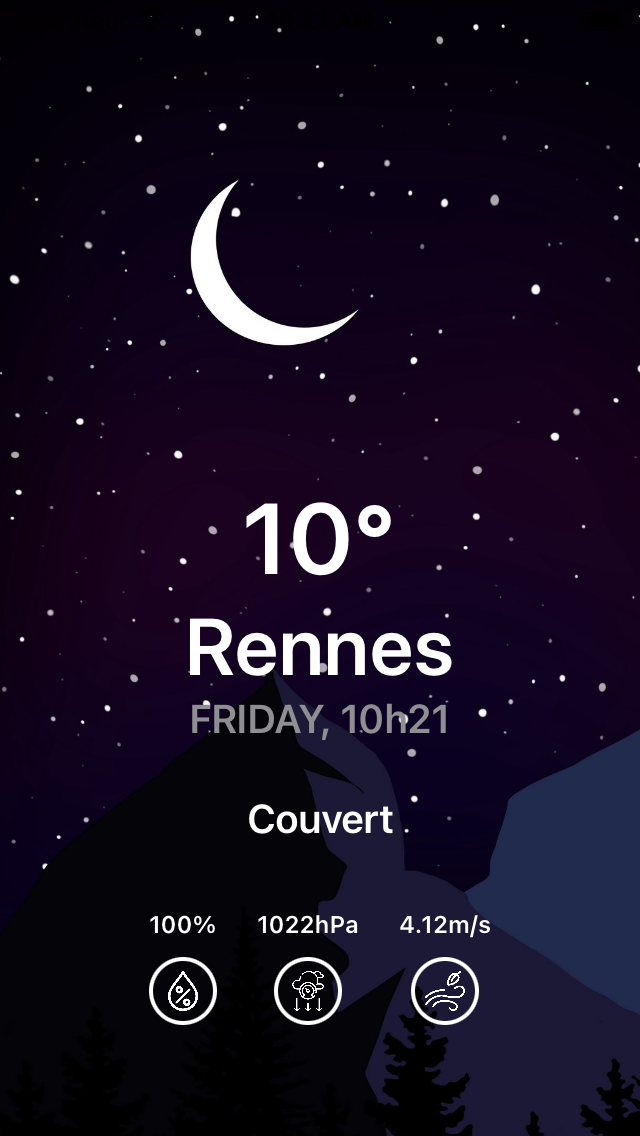
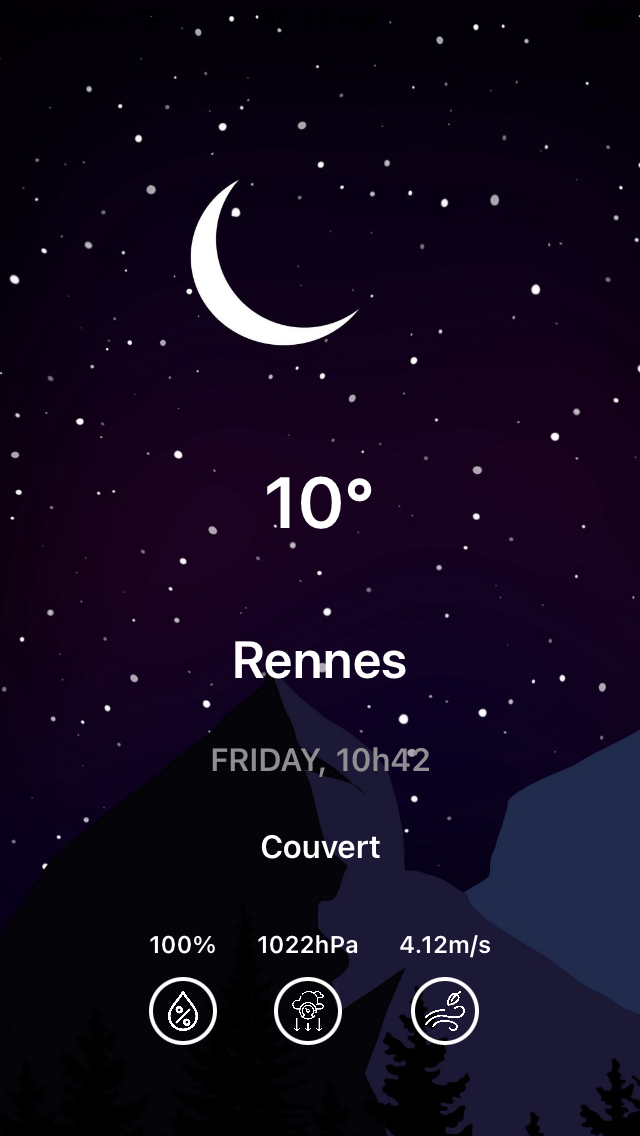
Update README.md

diff --git a/iosApp/iosApp/ContentView.swift b/iosApp/iosApp/ContentView.swift
@@ -59,25 +59,27 @@ struct ContentView: View {
         VStack {
             if let temperature = observableState.temperature{
                 Text(temperature)
-                    .font(.system(size: 50))
+                    .font(.system(size: 36))
                     .bold()
                     .foregroundColor(.white)
             }
             if let city = observableState.city{
                 Text(city)
-                    .font(.system(size: 40))
+                    .font(.system(size: 26))
                     .bold()
                     .foregroundColor(.white)
+                    .padding(.top, 16)
             }
             if let date = observableState.date{
                 Text(date)
-                    .font(.system(size: 20))
+                    .font(.system(size: 16))
                     .bold()
                     .foregroundColor(.gray)
+                    .padding(.top, 8)
             }
             if let description = observableState.description {
                 Text(description.capitalized)
-                    .font(.system(size: 20))
+                    .font(.system(size: 16))
                     .bold()
                     .padding(.top, 12)
                     .foregroundColor(.white)

diff --git a/README.md b/README.md
@@ -6,7 +6,7 @@ KMM-weather is a test project to practise KMM.
 
 Android                    |  iOS
 :-------------------------:|:-------------------------:
-<img src="./screenshot/android_home.png" width="100" height="100">  |  <img src="./screenshot/ios_home.png" width="100" height="100">
+<img src="./screenshot/android_home.png" width="250" height="500">  |  <img src="./screenshot/ios_home.png" width="250" height="500">
 
 ## Features
 
